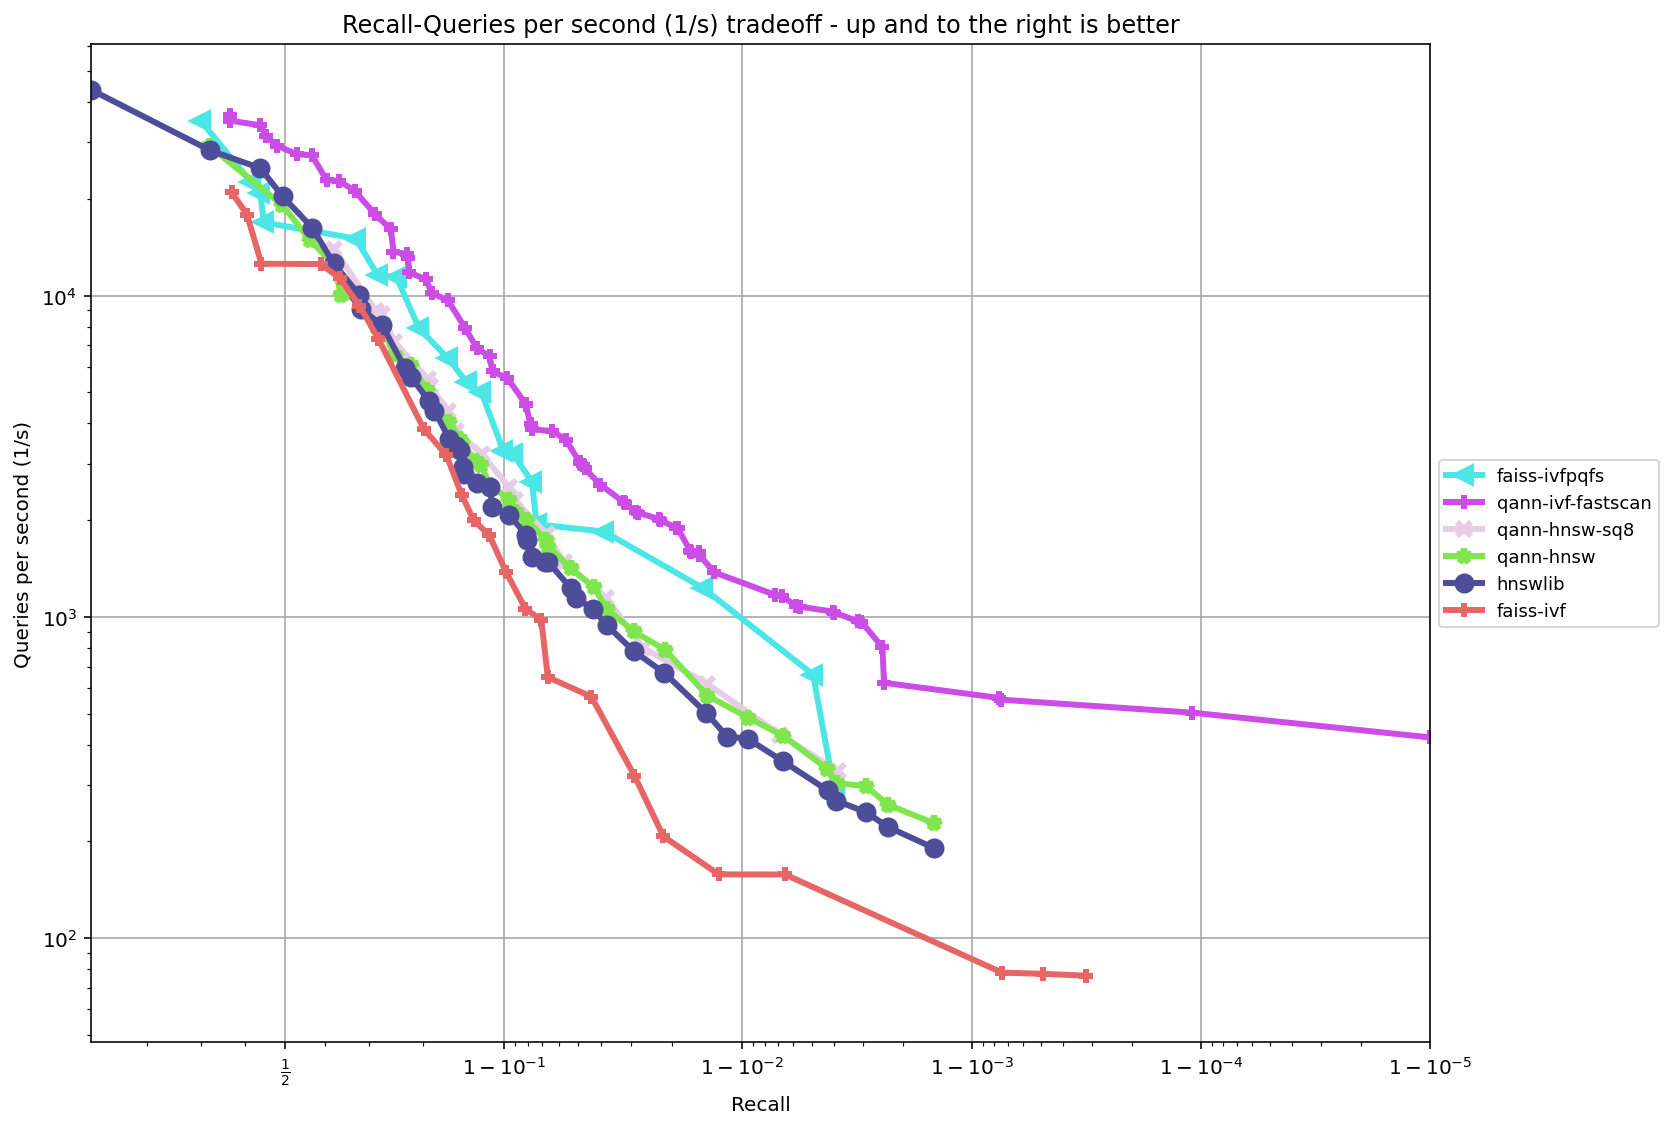
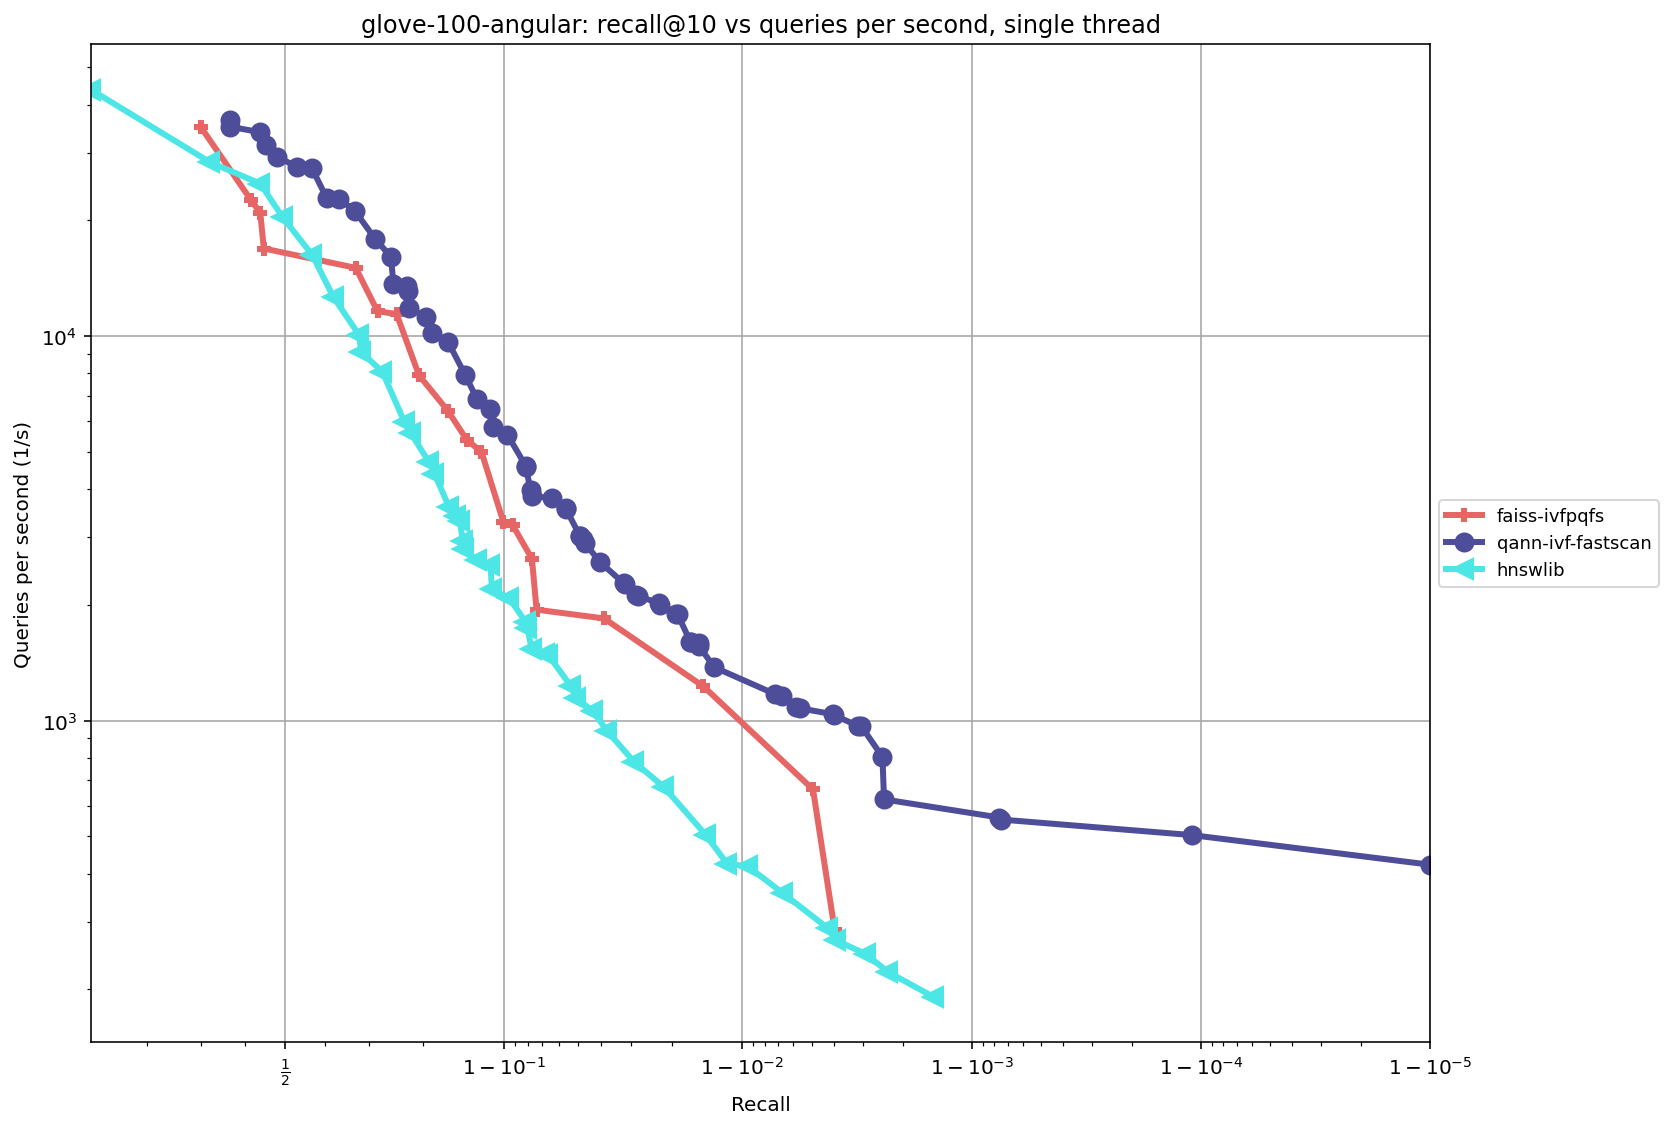
README plot: only each library's fastest index (qann fast-scan, hnswlib, FAISS fast-scan)
Same results and plot script as before, with the title naming the single-thread
setup; the caption says which index each line is and that qann's HNSW was left out.

diff --git a/README.md b/README.md
@@ -12,7 +12,7 @@ QaNN (**Q**uantized **N**earest **N**eighbors) is a Python library for fast near
 
 ![Recall against queries per second on glove-100-angular for qann, hnswlib and FAISS](https://raw.githubusercontent.com/maxtmiller/qann/main/docs/images/ann-glove-100-angular.png)
 
-GloVe-100 (1.2M word vectors, angular) on [ann-benchmarks](https://github.com/erikbern/ann-benchmarks): recall@10 against queries per second, one query at a time on one thread of an AMD EPYC 9J14 (Zen 4) VM; up and to the right is better. qann `main` before 0.1.0a27, hnswlib 0.8.0, faiss-cpu 1.14.3. IVF fast-scan with re-ranking (`qann-ivf-fastscan`) is the fastest at every recall level. The harness and configs are on the [`external-benchmarks`](https://github.com/maxtmiller/qann/tree/external-benchmarks/benchmarks/external) branch.
+GloVe-100 (1.2M word vectors, angular) on [ann-benchmarks](https://github.com/erikbern/ann-benchmarks): recall@10 against queries per second, one query at a time on one thread of an AMD EPYC 9J14 (Zen 4) VM; up and to the right is better. qann `main` before 0.1.0a27, hnswlib 0.8.0, faiss-cpu 1.14.3. Each line is that library's fastest index on this dataset: qann's IVF fast-scan with re-ranking (`qann-ivf-fastscan`), hnswlib's HNSW and FAISS's IVF-PQ fast-scan. qann's own HNSW, left out for readability, ran just ahead of hnswlib. The harness and configs are on the [`external-benchmarks`](https://github.com/maxtmiller/qann/tree/external-benchmarks/benchmarks/external) branch.
 
 ## Install
 
